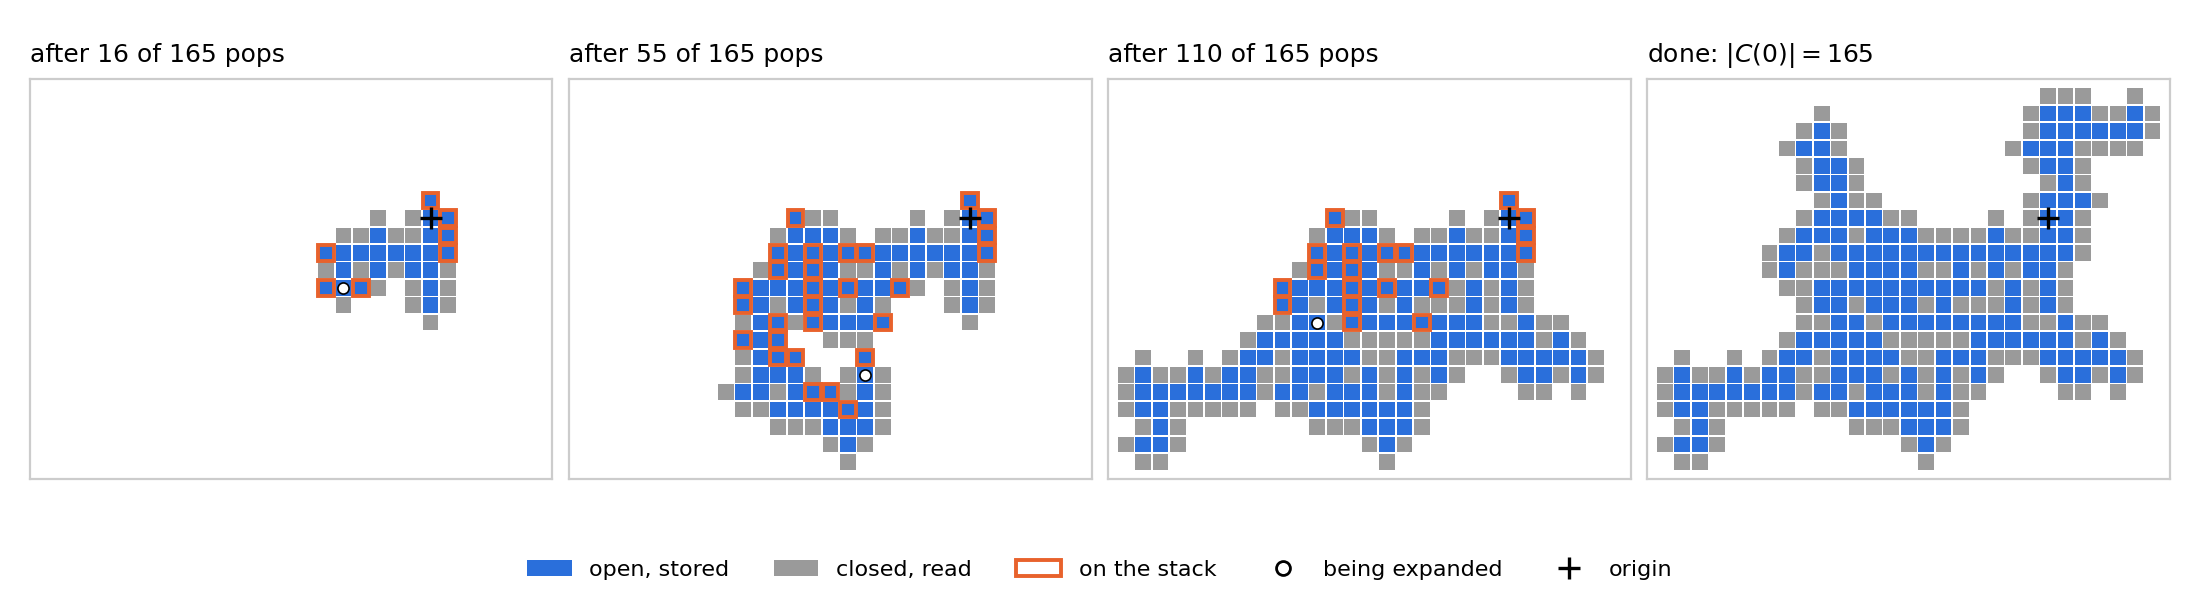
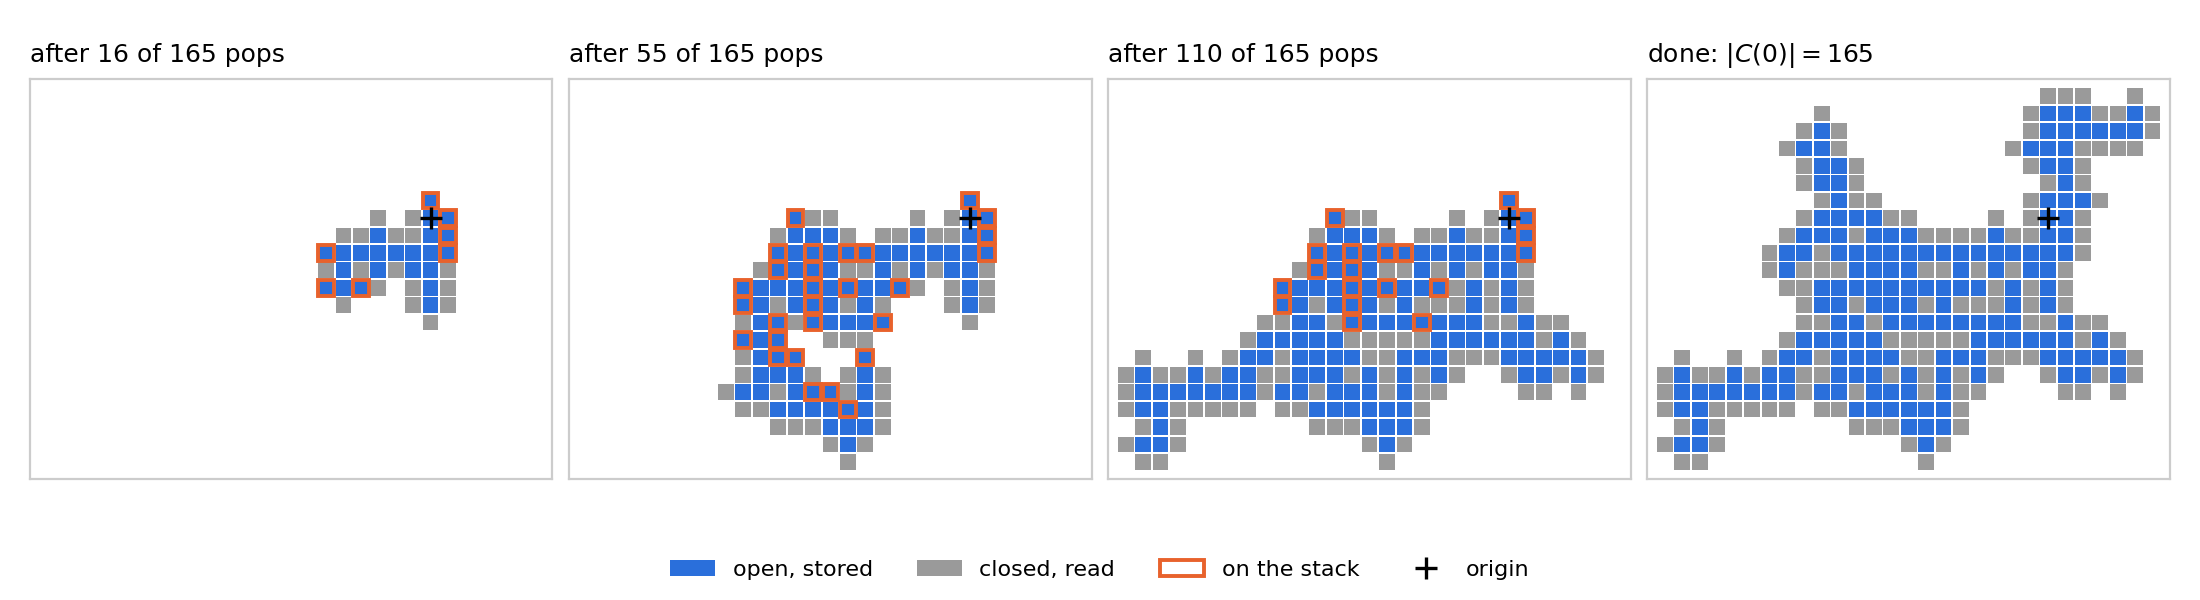
drop the being-expanded marker from the exploration figure

Changed region(s): [[0.2164, 0.93, 0.7727, 0.96]]

diff --git a/experiments/51_perc_gamma_susc_d3/plot_exploration.py b/experiments/51_perc_gamma_susc_d3/plot_exploration.py
@@ -5,8 +5,8 @@ Four snapshots of one exploration below p_c, drawn in d = 2 so that it can be se
 models/percolation_susceptibility_explore.py, the search pops a site from a stack,
 reads the state of each neighbour the first time it is touched, and pushes the open
 ones it has not stored yet; only the open sites of the cluster are stored. The
-panels show the open sites found, the closed sites read, the sites still on the
-stack and the site being expanded; unread sites are blank.
+panels show the open sites found, the closed sites read and the sites still on
+the stack; unread sites are blank.
 
 An illustration, not a measurement: site states are drawn lazily from a numpy
 Generator instead of the model's hash, and the seed is the first one, counting up
@@ -62,13 +62,11 @@ def explore(p: float, rng: np.random.Generator) -> tuple[dict, list]:
     return state, log
 
 
-def snapshot(log: list, upto: int) -> tuple[set, set, list, tuple]:
-    """(open found, closed read, stack, site being expanded) after `upto` pops."""
+def snapshot(log: list, upto: int) -> tuple[set, set, list]:
+    """(open found, closed read, stack) after `upto` pops."""
     found, closed, stack = {(0, 0)}, set(), [(0, 0)]
-    current = (0, 0)
-    for site, reads in log[:upto]:
+    for _site, reads in log[:upto]:
         stack.pop()
-        current = site
         for nb, is_open, pushed in reads:
             if is_open:
                 found.add(nb)
@@ -76,10 +74,10 @@ def snapshot(log: list, upto: int) -> tuple[set, set, list, tuple]:
                     stack.append(nb)
             else:
                 closed.add(nb)
-    return found, closed, stack, current
+    return found, closed, stack
 
 
-def draw(ax: plt.Axes, found: set, closed: set, stack: list, current: tuple | None,
+def draw(ax: plt.Axes, found: set, closed: set, stack: list,
          box: tuple[int, int, int, int]) -> None:
     x0, x1, y0, y1 = box
     for (x, y) in closed:
@@ -91,9 +89,6 @@ def draw(ax: plt.Axes, found: set, closed: set, stack: list, current: tuple | No
     for (x, y) in stack:
         ax.add_patch(Rectangle((x - 0.45, y - 0.45), 0.9, 0.9, facecolor="none",
                                edgecolor=STACK, lw=1.4))
-    if current is not None:
-        ax.plot([current[0]], [current[1]], marker="o", ms=4, color="white",
-                markeredgecolor="black", markeredgewidth=0.6)
     ax.plot([0], [0], marker="+", ms=8, color="black", mew=1.2)
     ax.set_xlim(x0 - 1, x1 + 1)
     ax.set_ylim(y0 - 1, y1 + 1)
@@ -129,21 +124,19 @@ def main() -> None:
     stages = (max(1, pops // 10), pops // 3, 2 * pops // 3)
     fig, axes = plt.subplots(1, 4, figsize=(11, 3.0))
     for ax, k in zip(axes[:3], stages):
-        found, closed, stack, current = snapshot(log, k)
-        draw(ax, found, closed, stack, current, box)
+        found, closed, stack = snapshot(log, k)
+        draw(ax, found, closed, stack, box)
         ax.set_title(f"after {k} of {pops} pops", fontsize=9, loc="left")
-    found, closed, _, _ = snapshot(log, pops)
-    draw(axes[3], found, closed, [], None, box)
+    found, closed, _ = snapshot(log, pops)
+    draw(axes[3], found, closed, [], box)
     axes[3].set_title(f"done: $|C(0)| = {len(found)}$", fontsize=9, loc="left")
     handles = [Rectangle((0, 0), 1, 1, facecolor=OPEN, label="open, stored"),
                Rectangle((0, 0), 1, 1, facecolor=CLOSED, label="closed, read"),
                Rectangle((0, 0), 1, 1, facecolor="none", edgecolor=STACK, lw=1.4,
                          label="on the stack"),
-               plt.Line2D([], [], marker="o", ls="", ms=5, color="white",
-                          markeredgecolor="black", label="being expanded"),
                plt.Line2D([], [], marker="+", ls="", ms=8, color="black", mew=1.2,
                           label="origin")]
-    fig.legend(handles=handles, loc="lower center", ncol=5, fontsize=8, frameon=False)
+    fig.legend(handles=handles, loc="lower center", ncol=4, fontsize=8, frameon=False)
     fig.tight_layout(rect=(0, 0.07, 1, 1), w_pad=0.6)
     for ext in ("pdf", "png"):
         fig.savefig(args.out / f"perc_exploration.{ext}", dpi=200)
